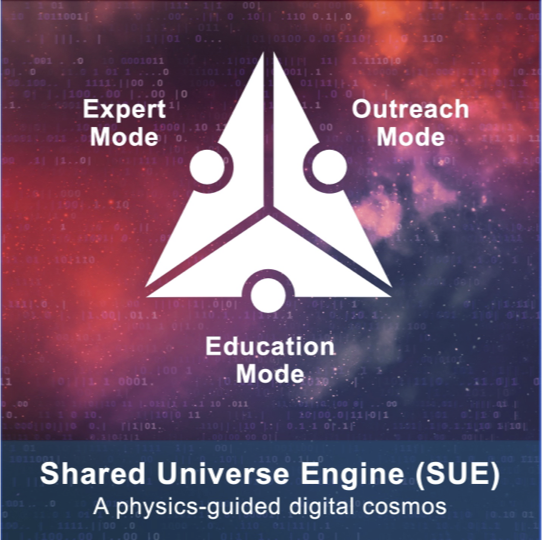
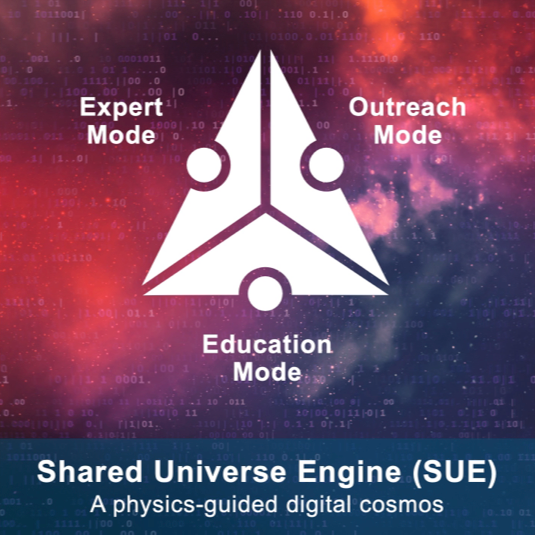
SUE

diff --git a/index.html b/index.html
@@ -182,8 +182,8 @@ Bernd Doser &amp; Sebastian Trujillo-Gomez
 </ul>
 <p><img data-src="images/illustris_latent_sphere_quarter.png" class="absolute" style="top: -120px; right: -120px; width: 500px; height: 500px; "></p>
 </section>
-<section id="introduction" class="slide level2">
-<h2>Introduction</h2>
+<section id="motivation" class="slide level2">
+<h2>Motivation</h2>
 <ul>
 <li><p>The amount of astronomical data is growing exponentially</p>
 <ul>
@@ -191,8 +191,8 @@ Bernd Doser &amp; Sebastian Trujillo-Gomez
 <li>Surveys (e.g.&nbsp;Euclid, LSST) are generating <strong>terabytes of data daily</strong></li>
 </ul></li>
 <li><p>Machine learning methods are needed to explore this amount of data</p></li>
-<li><p><strong>Our approach:</strong> Modular open-source tools for self-supervised knowledge discovery<br>
-<a href="https://github.com/HITS-AIN/PEST">PEST</a> <span class="math inline">\(\rightarrow\)</span> <a href="https://github.com/HITS-AIN/Spherinator">Spherinator</a> <span class="math inline">\(\rightarrow\)</span> <a href="https://github.com/HITS-AIN/HiPSter">HiPSter</a> <span class="math inline">\(\rightarrow\)</span> Shared Universe Engine</p></li>
+<li><p><strong>Our approach:</strong> Modular open-source tools for self-supervised knowledge discovery and interactive visualization of large-scale cosmological data</p>
+<!-- [PEST](https://github.com/HITS-AIN/PEST) $\rightarrow$ [Spherinator](https://github.com/HITS-AIN/Spherinator) $\rightarrow$ [HiPSter](https://github.com/HITS-AIN/HiPSter) $\rightarrow$ Shared Universe Engine --></li>
 </ul>
 </section>
 <section id="end-to-end-ml-pipeline" class="slide level2" data-auto-animate="true">
@@ -253,12 +253,12 @@ Bernd Doser &amp; Sebastian Trujillo-Gomez
 <div style="font-size: 70%;">
 <p>Determine the optimal number of dimensions in the latent space by analyzing the reconstruction.</p>
 </div>
-<div id="fa5b5289" class="cell" data-execution_count="1">
+<div id="95ef71f8" class="cell" data-execution_count="1">
 <div class="cell-output cell-output-display">
 <div style="height:525px; width:100%;">            <script src="https://cdnjs.cloudflare.com/ajax/libs/mathjax/2.7.5/MathJax.js?config=TeX-AMS-MML_SVG"></script><script>if (window.MathJax && window.MathJax.Hub && window.MathJax.Hub.Config) {window.MathJax.Hub.Config({SVG: {font: "STIX-Web"}});}</script>                <script>window.PlotlyConfig = {MathJaxConfig: 'local'};</script>
-        <script charset="utf-8" src="https://cdn.plot.ly/plotly-3.6.0.min.js" integrity="sha256-QaOVwtVY0T02VaHrr6pnoHLCwayMJp4O5n4YyaE3rJk=" crossorigin="anonymous"></script>                <div id="ed7f319b-aa1f-4204-9df7-be95c2ae0ccb" class="plotly-graph-div" style="height:100%; width:100%;"></div>            <script>                window.PLOTLYENV=window.PLOTLYENV || {};                                if (document.getElementById("ed7f319b-aa1f-4204-9df7-be95c2ae0ccb")) {                    Plotly.newPlot(                        "ed7f319b-aa1f-4204-9df7-be95c2ae0ccb",                        [{"line":{"color":"#0088c2","width":3},"marker":{"size":10},"mode":"lines+markers","name":"Validation","x":{"dtype":"i2","bdata":"AgAEAAgAEAAgAEAAgAAAAQ=="},"y":{"dtype":"f8","bdata":"SDgteNFXkD8wJ2iTwyeNP9jV5Cmr6Yo\u002fdLM\u002fUG7bhz8jDtlAutiEP2\u002frE+V3P4M\u002fGxb+ZyhJgj8j988uOrSDPw=="},"type":"scatter"},{"line":{"color":"#cee6f5","width":3},"marker":{"size":10},"mode":"lines+markers","name":"Training","x":{"dtype":"i2","bdata":"AgAEAAgAEAAgAEAAgAAAAQ=="},"y":{"dtype":"f8","bdata":"AaCKG7eYjz8a+bziqUeKPy0296EcFoQ\u002fb1f5r71ggT97QhslVBV\u002fP8GAb+TLVX0\u002f6NhBJa5jfD9DRlGxezx+Pw=="},"type":"scatter"}],                        {"template":{"data":{"histogram2dcontour":[{"type":"histogram2dcontour","colorbar":{"outlinewidth":0,"ticks":""},"colorscale":[[0.0,"#0d0887"],[0.1111111111111111,"#46039f"],[0.2222222222222222,"#7201a8"],[0.3333333333333333,"#9c179e"],[0.4444444444444444,"#bd3786"],[0.5555555555555556,"#d8576b"],[0.6666666666666666,"#ed7953"],[0.7777777777777778,"#fb9f3a"],[0.8888888888888888,"#fdca26"],[1.0,"#f0f921"]]}],"choropleth":[{"type":"choropleth","colorbar":{"outlinewidth":0,"ticks":""}}],"histogram2d":[{"type":"histogram2d","colorbar":{"outlinewidth":0,"ticks":""},"colorscale":[[0.0,"#0d0887"],[0.1111111111111111,"#46039f"],[0.2222222222222222,"#7201a8"],[0.3333333333333333,"#9c179e"],[0.4444444444444444,"#bd3786"],[0.5555555555555556,"#d8576b"],[0.6666666666666666,"#ed7953"],[0.7777777777777778,"#fb9f3a"],[0.8888888888888888,"#fdca26"],[1.0,"#f0f921"]]}],"heatmap":[{"type":"heatmap","colorbar":{"outlinewidth":0,"ticks":""},"colorscale":[[0.0,"#0d0887"],[0.1111111111111111,"#46039f"],[0.2222222222222222,"#7201a8"],[0.3333333333333333,"#9c179e"],[0.4444444444444444,"#bd3786"],[0.5555555555555556,"#d8576b"],[0.6666666666666666,"#ed7953"],[0.7777777777777778,"#fb9f3a"],[0.8888888888888888,"#fdca26"],[1.0,"#f0f921"]]}],"contourcarpet":[{"type":"contourcarpet","colorbar":{"outlinewidth":0,"ticks":""}}],"contour":[{"type":"contour","colorbar":{"outlinewidth":0,"ticks":""},"colorscale":[[0.0,"#0d0887"],[0.1111111111111111,"#46039f"],[0.2222222222222222,"#7201a8"],[0.3333333333333333,"#9c179e"],[0.4444444444444444,"#bd3786"],[0.5555555555555556,"#d8576b"],[0.6666666666666666,"#ed7953"],[0.7777777777777778,"#fb9f3a"],[0.8888888888888888,"#fdca26"],[1.0,"#f0f921"]]}],"surface":[{"type":"surface","colorbar":{"outlinewidth":0,"ticks":""},"colorscale":[[0.0,"#0d0887"],[0.1111111111111111,"#46039f"],[0.2222222222222222,"#7201a8"],[0.3333333333333333,"#9c179e"],[0.4444444444444444,"#bd3786"],[0.5555555555555556,"#d8576b"],[0.6666666666666666,"#ed7953"],[0.7777777777777778,"#fb9f3a"],[0.8888888888888888,"#fdca26"],[1.0,"#f0f921"]]}],"mesh3d":[{"type":"mesh3d","colorbar":{"outlinewidth":0,"ticks":""}}],"scatter":[{"fillpattern":{"fillmode":"overlay","size":10,"solidity":0.2},"type":"scatter"}],"parcoords":[{"type":"parcoords","line":{"colorbar":{"outlinewidth":0,"ticks":""}}}],"scatterpolargl":[{"type":"scatterpolargl","marker":{"colorbar":{"outlinewidth":0,"ticks":""}}}],"bar":[{"error_x":{"color":"#2a3f5f"},"error_y":{"color":"#2a3f5f"},"marker":{"line":{"color":"#E5ECF6","width":0.5},"pattern":{"fillmode":"overlay","size":10,"solidity":0.2}},"type":"bar"}],"scattergeo":[{"type":"scattergeo","marker":{"colorbar":{"outlinewidth":0,"ticks":""}}}],"scatterpolar":[{"type":"scatterpolar","marker":{"colorbar":{"outlinewidth":0,"ticks":""}}}],"histogram":[{"marker":{"pattern":{"fillmode":"overlay","size":10,"solidity":0.2}},"type":"histogram"}],"scattergl":[{"type":"scattergl","marker":{"colorbar":{"outlinewidth":0,"ticks":""}}}],"scatter3d":[{"type":"scatter3d","line":{"colorbar":{"outlinewidth":0,"ticks":""}},"marker":{"colorbar":{"outlinewidth":0,"ticks":""}}}],"scattermap":[{"type":"scattermap","marker":{"colorbar":{"outlinewidth":0,"ticks":""}}}],"scattermapbox":[{"type":"scattermapbox","marker":{"colorbar":{"outlinewidth":0,"ticks":""}}}],"scatterternary":[{"type":"scatterternary","marker":{"colorbar":{"outlinewidth":0,"ticks":""}}}],"scattercarpet":[{"type":"scattercarpet","marker":{"colorbar":{"outlinewidth":0,"ticks":""}}}],"carpet":[{"aaxis":{"endlinecolor":"#2a3f5f","gridcolor":"white","linecolor":"white","minorgridcolor":"white","startlinecolor":"#2a3f5f"},"baxis":{"endlinecolor":"#2a3f5f","gridcolor":"white","linecolor":"white","minorgridcolor":"white","startlinecolor":"#2a3f5f"},"type":"carpet"}],"table":[{"cells":{"fill":{"color":"#EBF0F8"},"line":{"color":"white"}},"header":{"fill":{"color":"#C8D4E3"},"line":{"color":"white"}},"type":"table"}],"barpolar":[{"marker":{"line":{"color":"#E5ECF6","width":0.5},"pattern":{"fillmode":"overlay","size":10,"solidity":0.2}},"type":"barpolar"}],"pie":[{"automargin":true,"type":"pie"}]},"layout":{"autotypenumbers":"strict","colorway":["#636efa","#EF553B","#00cc96","#ab63fa","#FFA15A","#19d3f3","#FF6692","#B6E880","#FF97FF","#FECB52"],"font":{"color":"#2a3f5f"},"hovermode":"closest","hoverlabel":{"align":"left"},"paper_bgcolor":"white","plot_bgcolor":"#E5ECF6","polar":{"bgcolor":"#E5ECF6","angularaxis":{"gridcolor":"white","linecolor":"white","ticks":""},"radialaxis":{"gridcolor":"white","linecolor":"white","ticks":""}},"ternary":{"bgcolor":"#E5ECF6","aaxis":{"gridcolor":"white","linecolor":"white","ticks":""},"baxis":{"gridcolor":"white","linecolor":"white","ticks":""},"caxis":{"gridcolor":"white","linecolor":"white","ticks":""}},"coloraxis":{"colorbar":{"outlinewidth":0,"ticks":""}},"colorscale":{"sequential":[[0.0,"#0d0887"],[0.1111111111111111,"#46039f"],[0.2222222222222222,"#7201a8"],[0.3333333333333333,"#9c179e"],[0.4444444444444444,"#bd3786"],[0.5555555555555556,"#d8576b"],[0.6666666666666666,"#ed7953"],[0.7777777777777778,"#fb9f3a"],[0.8888888888888888,"#fdca26"],[1.0,"#f0f921"]],"sequentialminus":[[0.0,"#0d0887"],[0.1111111111111111,"#46039f"],[0.2222222222222222,"#7201a8"],[0.3333333333333333,"#9c179e"],[0.4444444444444444,"#bd3786"],[0.5555555555555556,"#d8576b"],[0.6666666666666666,"#ed7953"],[0.7777777777777778,"#fb9f3a"],[0.8888888888888888,"#fdca26"],[1.0,"#f0f921"]],"diverging":[[0,"#8e0152"],[0.1,"#c51b7d"],[0.2,"#de77ae"],[0.3,"#f1b6da"],[0.4,"#fde0ef"],[0.5,"#f7f7f7"],[0.6,"#e6f5d0"],[0.7,"#b8e186"],[0.8,"#7fbc41"],[0.9,"#4d9221"],[1,"#276419"]]},"xaxis":{"gridcolor":"white","linecolor":"white","ticks":"","title":{"standoff":15},"zerolinecolor":"white","automargin":true,"zerolinewidth":2},"yaxis":{"gridcolor":"white","linecolor":"white","ticks":"","title":{"standoff":15},"zerolinecolor":"white","automargin":true,"zerolinewidth":2},"scene":{"xaxis":{"backgroundcolor":"#E5ECF6","gridcolor":"white","linecolor":"white","showbackground":true,"ticks":"","zerolinecolor":"white","gridwidth":2},"yaxis":{"backgroundcolor":"#E5ECF6","gridcolor":"white","linecolor":"white","showbackground":true,"ticks":"","zerolinecolor":"white","gridwidth":2},"zaxis":{"backgroundcolor":"#E5ECF6","gridcolor":"white","linecolor":"white","showbackground":true,"ticks":"","zerolinecolor":"white","gridwidth":2}},"shapedefaults":{"line":{"color":"#2a3f5f"}},"annotationdefaults":{"arrowcolor":"#2a3f5f","arrowhead":0,"arrowwidth":1},"geo":{"bgcolor":"white","landcolor":"#E5ECF6","subunitcolor":"white","showland":true,"showlakes":true,"lakecolor":"white"},"title":{"x":0.05},"mapbox":{"style":"light"},"margin":{"b":0,"l":0,"r":0,"t":30}}},"font":{"color":"#cee6f5","size":16},"xaxis":{"title":{"text":"S\u003csup\u003en\u003c\u002fsup\u003e"},"gridcolor":"rgba(206,230,245,0.2)","linecolor":"rgba(206,230,245,0.4)"},"yaxis":{"title":{"text":"L1 loss"},"gridcolor":"rgba(206,230,245,0.2)","linecolor":"rgba(206,230,245,0.4)"},"legend":{"bgcolor":"rgba(0,0,0,0)"},"margin":{"l":60,"r":20,"t":20,"b":60},"hovermode":false,"paper_bgcolor":"rgba(0,0,0,0)","plot_bgcolor":"rgba(0,0,0,0)"},                        {"displayModeBar": false, "responsive": true}                    ).then(function(){
+        <script charset="utf-8" src="https://cdn.plot.ly/plotly-3.6.0.min.js" integrity="sha256-QaOVwtVY0T02VaHrr6pnoHLCwayMJp4O5n4YyaE3rJk=" crossorigin="anonymous"></script>                <div id="81edb06a-ff20-47b1-92cc-05f7db3b867b" class="plotly-graph-div" style="height:100%; width:100%;"></div>            <script>                window.PLOTLYENV=window.PLOTLYENV || {};                                if (document.getElementById("81edb06a-ff20-47b1-92cc-05f7db3b867b")) {                    Plotly.newPlot(                        "81edb06a-ff20-47b1-92cc-05f7db3b867b",                        [{"line":{"color":"#0088c2","width":3},"marker":{"size":10},"mode":"lines+markers","name":"Validation","x":{"dtype":"i2","bdata":"AgAEAAgAEAAgAEAAgAAAAQ=="},"y":{"dtype":"f8","bdata":"SDgteNFXkD8wJ2iTwyeNP9jV5Cmr6Yo\u002fdLM\u002fUG7bhz8jDtlAutiEP2\u002frE+V3P4M\u002fGxb+ZyhJgj8j988uOrSDPw=="},"type":"scatter"},{"line":{"color":"#cee6f5","width":3},"marker":{"size":10},"mode":"lines+markers","name":"Training","x":{"dtype":"i2","bdata":"AgAEAAgAEAAgAEAAgAAAAQ=="},"y":{"dtype":"f8","bdata":"AaCKG7eYjz8a+bziqUeKPy0296EcFoQ\u002fb1f5r71ggT97QhslVBV\u002fP8GAb+TLVX0\u002f6NhBJa5jfD9DRlGxezx+Pw=="},"type":"scatter"}],                        {"template":{"data":{"histogram2dcontour":[{"type":"histogram2dcontour","colorbar":{"outlinewidth":0,"ticks":""},"colorscale":[[0.0,"#0d0887"],[0.1111111111111111,"#46039f"],[0.2222222222222222,"#7201a8"],[0.3333333333333333,"#9c179e"],[0.4444444444444444,"#bd3786"],[0.5555555555555556,"#d8576b"],[0.6666666666666666,"#ed7953"],[0.7777777777777778,"#fb9f3a"],[0.8888888888888888,"#fdca26"],[1.0,"#f0f921"]]}],"choropleth":[{"type":"choropleth","colorbar":{"outlinewidth":0,"ticks":""}}],"histogram2d":[{"type":"histogram2d","colorbar":{"outlinewidth":0,"ticks":""},"colorscale":[[0.0,"#0d0887"],[0.1111111111111111,"#46039f"],[0.2222222222222222,"#7201a8"],[0.3333333333333333,"#9c179e"],[0.4444444444444444,"#bd3786"],[0.5555555555555556,"#d8576b"],[0.6666666666666666,"#ed7953"],[0.7777777777777778,"#fb9f3a"],[0.8888888888888888,"#fdca26"],[1.0,"#f0f921"]]}],"heatmap":[{"type":"heatmap","colorbar":{"outlinewidth":0,"ticks":""},"colorscale":[[0.0,"#0d0887"],[0.1111111111111111,"#46039f"],[0.2222222222222222,"#7201a8"],[0.3333333333333333,"#9c179e"],[0.4444444444444444,"#bd3786"],[0.5555555555555556,"#d8576b"],[0.6666666666666666,"#ed7953"],[0.7777777777777778,"#fb9f3a"],[0.8888888888888888,"#fdca26"],[1.0,"#f0f921"]]}],"contourcarpet":[{"type":"contourcarpet","colorbar":{"outlinewidth":0,"ticks":""}}],"contour":[{"type":"contour","colorbar":{"outlinewidth":0,"ticks":""},"colorscale":[[0.0,"#0d0887"],[0.1111111111111111,"#46039f"],[0.2222222222222222,"#7201a8"],[0.3333333333333333,"#9c179e"],[0.4444444444444444,"#bd3786"],[0.5555555555555556,"#d8576b"],[0.6666666666666666,"#ed7953"],[0.7777777777777778,"#fb9f3a"],[0.8888888888888888,"#fdca26"],[1.0,"#f0f921"]]}],"surface":[{"type":"surface","colorbar":{"outlinewidth":0,"ticks":""},"colorscale":[[0.0,"#0d0887"],[0.1111111111111111,"#46039f"],[0.2222222222222222,"#7201a8"],[0.3333333333333333,"#9c179e"],[0.4444444444444444,"#bd3786"],[0.5555555555555556,"#d8576b"],[0.6666666666666666,"#ed7953"],[0.7777777777777778,"#fb9f3a"],[0.8888888888888888,"#fdca26"],[1.0,"#f0f921"]]}],"mesh3d":[{"type":"mesh3d","colorbar":{"outlinewidth":0,"ticks":""}}],"scatter":[{"fillpattern":{"fillmode":"overlay","size":10,"solidity":0.2},"type":"scatter"}],"parcoords":[{"type":"parcoords","line":{"colorbar":{"outlinewidth":0,"ticks":""}}}],"scatterpolargl":[{"type":"scatterpolargl","marker":{"colorbar":{"outlinewidth":0,"ticks":""}}}],"bar":[{"error_x":{"color":"#2a3f5f"},"error_y":{"color":"#2a3f5f"},"marker":{"line":{"color":"#E5ECF6","width":0.5},"pattern":{"fillmode":"overlay","size":10,"solidity":0.2}},"type":"bar"}],"scattergeo":[{"type":"scattergeo","marker":{"colorbar":{"outlinewidth":0,"ticks":""}}}],"scatterpolar":[{"type":"scatterpolar","marker":{"colorbar":{"outlinewidth":0,"ticks":""}}}],"histogram":[{"marker":{"pattern":{"fillmode":"overlay","size":10,"solidity":0.2}},"type":"histogram"}],"scattergl":[{"type":"scattergl","marker":{"colorbar":{"outlinewidth":0,"ticks":""}}}],"scatter3d":[{"type":"scatter3d","line":{"colorbar":{"outlinewidth":0,"ticks":""}},"marker":{"colorbar":{"outlinewidth":0,"ticks":""}}}],"scattermap":[{"type":"scattermap","marker":{"colorbar":{"outlinewidth":0,"ticks":""}}}],"scattermapbox":[{"type":"scattermapbox","marker":{"colorbar":{"outlinewidth":0,"ticks":""}}}],"scatterternary":[{"type":"scatterternary","marker":{"colorbar":{"outlinewidth":0,"ticks":""}}}],"scattercarpet":[{"type":"scattercarpet","marker":{"colorbar":{"outlinewidth":0,"ticks":""}}}],"carpet":[{"aaxis":{"endlinecolor":"#2a3f5f","gridcolor":"white","linecolor":"white","minorgridcolor":"white","startlinecolor":"#2a3f5f"},"baxis":{"endlinecolor":"#2a3f5f","gridcolor":"white","linecolor":"white","minorgridcolor":"white","startlinecolor":"#2a3f5f"},"type":"carpet"}],"table":[{"cells":{"fill":{"color":"#EBF0F8"},"line":{"color":"white"}},"header":{"fill":{"color":"#C8D4E3"},"line":{"color":"white"}},"type":"table"}],"barpolar":[{"marker":{"line":{"color":"#E5ECF6","width":0.5},"pattern":{"fillmode":"overlay","size":10,"solidity":0.2}},"type":"barpolar"}],"pie":[{"automargin":true,"type":"pie"}]},"layout":{"autotypenumbers":"strict","colorway":["#636efa","#EF553B","#00cc96","#ab63fa","#FFA15A","#19d3f3","#FF6692","#B6E880","#FF97FF","#FECB52"],"font":{"color":"#2a3f5f"},"hovermode":"closest","hoverlabel":{"align":"left"},"paper_bgcolor":"white","plot_bgcolor":"#E5ECF6","polar":{"bgcolor":"#E5ECF6","angularaxis":{"gridcolor":"white","linecolor":"white","ticks":""},"radialaxis":{"gridcolor":"white","linecolor":"white","ticks":""}},"ternary":{"bgcolor":"#E5ECF6","aaxis":{"gridcolor":"white","linecolor":"white","ticks":""},"baxis":{"gridcolor":"white","linecolor":"white","ticks":""},"caxis":{"gridcolor":"white","linecolor":"white","ticks":""}},"coloraxis":{"colorbar":{"outlinewidth":0,"ticks":""}},"colorscale":{"sequential":[[0.0,"#0d0887"],[0.1111111111111111,"#46039f"],[0.2222222222222222,"#7201a8"],[0.3333333333333333,"#9c179e"],[0.4444444444444444,"#bd3786"],[0.5555555555555556,"#d8576b"],[0.6666666666666666,"#ed7953"],[0.7777777777777778,"#fb9f3a"],[0.8888888888888888,"#fdca26"],[1.0,"#f0f921"]],"sequentialminus":[[0.0,"#0d0887"],[0.1111111111111111,"#46039f"],[0.2222222222222222,"#7201a8"],[0.3333333333333333,"#9c179e"],[0.4444444444444444,"#bd3786"],[0.5555555555555556,"#d8576b"],[0.6666666666666666,"#ed7953"],[0.7777777777777778,"#fb9f3a"],[0.8888888888888888,"#fdca26"],[1.0,"#f0f921"]],"diverging":[[0,"#8e0152"],[0.1,"#c51b7d"],[0.2,"#de77ae"],[0.3,"#f1b6da"],[0.4,"#fde0ef"],[0.5,"#f7f7f7"],[0.6,"#e6f5d0"],[0.7,"#b8e186"],[0.8,"#7fbc41"],[0.9,"#4d9221"],[1,"#276419"]]},"xaxis":{"gridcolor":"white","linecolor":"white","ticks":"","title":{"standoff":15},"zerolinecolor":"white","automargin":true,"zerolinewidth":2},"yaxis":{"gridcolor":"white","linecolor":"white","ticks":"","title":{"standoff":15},"zerolinecolor":"white","automargin":true,"zerolinewidth":2},"scene":{"xaxis":{"backgroundcolor":"#E5ECF6","gridcolor":"white","linecolor":"white","showbackground":true,"ticks":"","zerolinecolor":"white","gridwidth":2},"yaxis":{"backgroundcolor":"#E5ECF6","gridcolor":"white","linecolor":"white","showbackground":true,"ticks":"","zerolinecolor":"white","gridwidth":2},"zaxis":{"backgroundcolor":"#E5ECF6","gridcolor":"white","linecolor":"white","showbackground":true,"ticks":"","zerolinecolor":"white","gridwidth":2}},"shapedefaults":{"line":{"color":"#2a3f5f"}},"annotationdefaults":{"arrowcolor":"#2a3f5f","arrowhead":0,"arrowwidth":1},"geo":{"bgcolor":"white","landcolor":"#E5ECF6","subunitcolor":"white","showland":true,"showlakes":true,"lakecolor":"white"},"title":{"x":0.05},"mapbox":{"style":"light"},"margin":{"b":0,"l":0,"r":0,"t":30}}},"font":{"color":"#cee6f5","size":16},"xaxis":{"title":{"text":"S\u003csup\u003en\u003c\u002fsup\u003e"},"gridcolor":"rgba(206,230,245,0.2)","linecolor":"rgba(206,230,245,0.4)"},"yaxis":{"title":{"text":"L1 loss"},"gridcolor":"rgba(206,230,245,0.2)","linecolor":"rgba(206,230,245,0.4)"},"legend":{"bgcolor":"rgba(0,0,0,0)"},"margin":{"l":60,"r":20,"t":20,"b":60},"hovermode":false,"paper_bgcolor":"rgba(0,0,0,0)","plot_bgcolor":"rgba(0,0,0,0)"},                        {"displayModeBar": false, "responsive": true}                    ).then(function(){
                             
-var gd = document.getElementById('ed7f319b-aa1f-4204-9df7-be95c2ae0ccb');
+var gd = document.getElementById('81edb06a-ff20-47b1-92cc-05f7db3b867b');
 var x = new MutationObserver(function (mutations, observer) {{
         var display = window.getComputedStyle(gd).display;
         if (!display || display === 'none') {{
@@ -421,15 +421,30 @@ if (outputEl) {{
 ![](images/flyte-architecture.svg){fig-align="center" width="900"} -->
 </section>
 <section id="the-shared-universe-engine" class="slide level2">
-<h2><img data-src="images/logos/dynaverse.png" style="vertical-align: middle;" height="60"> The Shared Universe Engine</h2>
+<h2>The Shared Universe Engine</h2>
+<div class="quarto-layout-panel" data-layout="[1,1]">
+<div class="quarto-layout-row">
+<div class="n1 quarto-layout-cell" style="flex-basis: 50.0%;justify-content: center;">
+<div class="quarto-figure quarto-figure-center">
+<figure>
+<p><img data-src="images/logos/dynaverse.png" class="quarto-figure quarto-figure-center" style="width: 40%; margin-bottom: -30px;"></p>
+</figure>
+</div>
+<div style="font-size: 80%;">
 <ul>
-<li><p><a href="https://dynaverse.astro.uni-koeln.de/">DynaVerse</a> (Our Dynamic Universe) is a German Cluster of Excellence that combines astrophysics, mathematics, and computer science to study how cosmic processes across vastly different timescales shape the universe</p></li>
-<li><p>The SUE (Shared Universe Engine) is a unified platform connecting data, models, and simulations across scales and disciplines</p></li>
+<li><a href="https://dynaverse.astro.uni-koeln.de/">DynaVerse</a> is a <strong>German Cluster of Excellence</strong> that combines astrophysics, mathematics, and computer science to study cosmic processes of different timescales</li>
+<li>The SUE (Shared Universe Engine) is a unified platform connecting data, models, and simulations across scales and disciplines</li>
 </ul>
+</div>
+</div>
+<div class="n2 quarto-layout-cell" style="flex-basis: 50.0%;justify-content: center;">
 <div class="quarto-figure quarto-figure-center">
 <figure>
 <p><img data-src="images/SUE-color-final.png" class="quarto-figure quarto-figure-center"></p>
 </figure>
+</div>
+</div>
+</div>
 </div>
 </section>
 <section id="summary-and-outlook" class="slide level2">